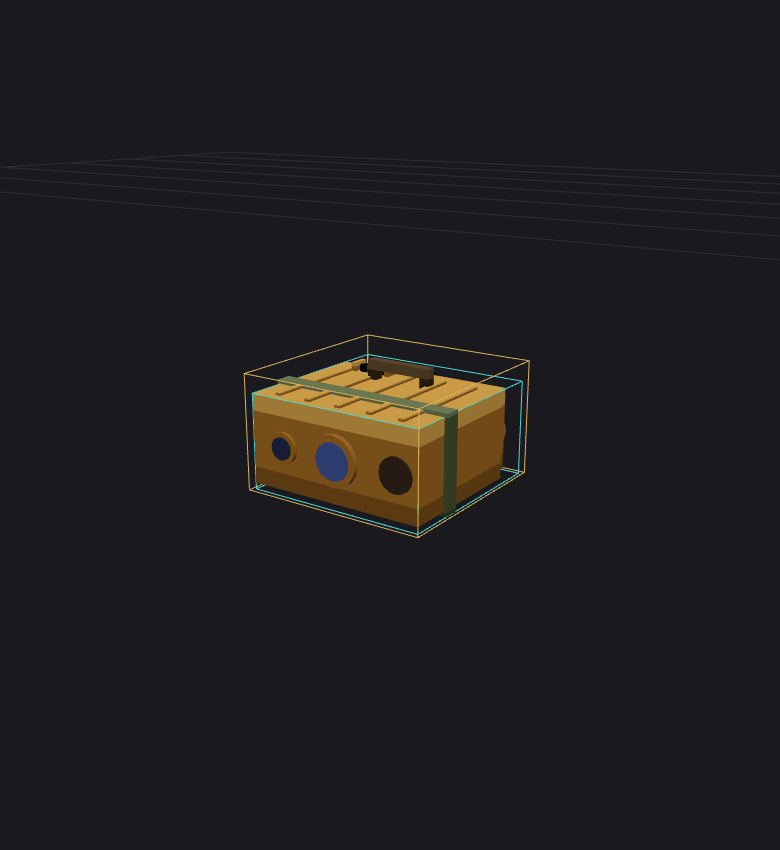
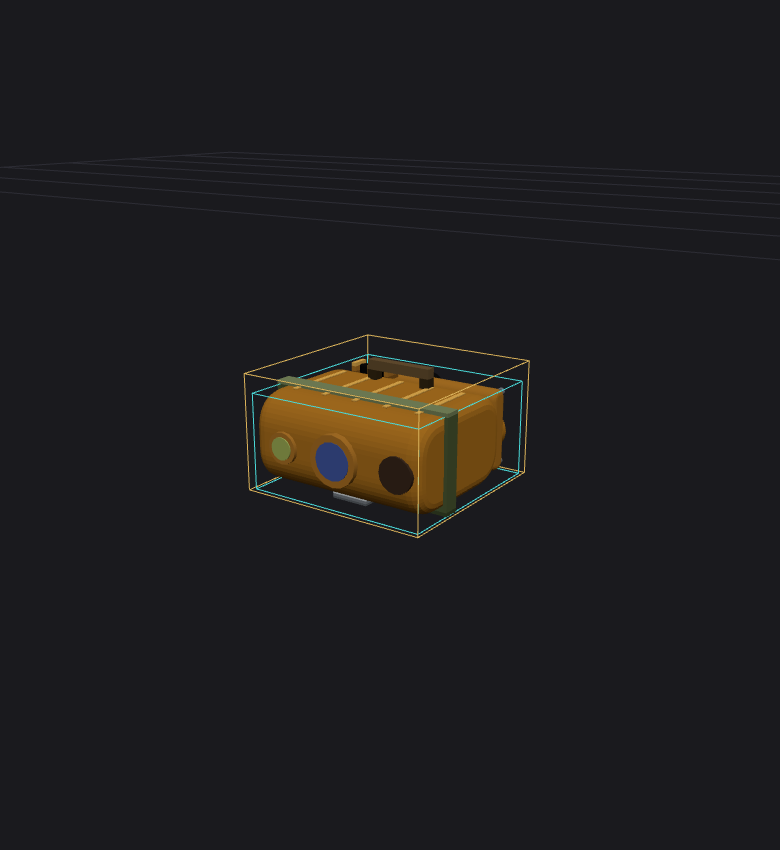
feat(lpr1): v2 sculpt — rounded capsule silhouette + custom-mesh viewmodel
Owner pass 2 ("zaoblené ne krabice, custom meshe, jemnější žebra"):
- new THREE-bound modelgen op 'loaf' (rounded stadium-profile extrusion
  with beveled rim) + extents/manifest/test coverage — spec body & rear
  panel are now true rounded castings, ribs subtler
- new palette 'lensLaser': the laser window is yellow-green per the
  owner's marketplace photo set; objective stays deep blue
- viewmodel fully resculpted as custom meshes (binoculars-grade):
  extruded capsule + sculpted panel, lathe eyecups/knobs/battery cap,
  knurled СТРОБ drum + cream scale ring + slot screw, half-moon button
  guards, dome buttons, strap lugs + slim handle, knurled brass разъём
- objective cover stays OFF (in-use look, per owner)

Changed region(s): [[0.3077, 0.4282, 0.6462, 0.6424]]

diff --git a/src/weapons.js b/src/weapons.js
@@ -801,70 +801,113 @@ export function buildViewmodel(def) {
       cyl(0.02, 0.02, 0.16, 0, 0, 0, bodyLo, { seg: 14 });                       // central hinge axle (vertical)
       break;
     }
-    case 'lpr1': {   // ЛПР-1 «Каралон-М» laser rangefinder — ochre cast loaf (dossier 226×116×221 mm ×2.2), front: laser window + big coated objective + осушка disc; rear: 2 eyecups, СТРОБ drum, knobs, plates; top: ИЗМЕРЕНИЕ buttons + ribs + strap handle
+    case 'lpr1': {   // ЛПР-1 «Каралон-М» laser rangefinder — CUSTOM-MESH build (owner pass 2): rounded cast capsule
+      // (extruded stadium profile, dossier 226×116×221 mm ×2.2), lathe eyecups/knobs/battery, subtle top ribs.
+      // Authored Z-FLIPPED vs models/lpr1/spec.json (rear panel at +Z toward the player) → asymmetric X negated.
       const oHi = 0xd99c3e, oMid = 0xb3782a, oLo = 0x8c5c20, oBr = 0xedb654,
-            blk = 0x141414, blkLo = 0x0c0c0c, bak = 0x2c2723, stl = 0x8a9099, brs = 0xa8842f,
-            olv = 0x52603a, lth = 0x3a2c18, glHi = 0x4a5fa8, glMid = 0x2e3c75, glDk = 0x1f2a52,
-            crm = 0xe6dcc2, grn = 0x3f2e22, glint = 0xcfdcff;
+            blk = 0x141414, blkLo = 0x0c0c0c, bak = 0x2c2723, stl = 0x8a9099, gun = 0x3a3f45, brs = 0xa8842f,
+            olv = 0x52603a, lth = 0x3a2c18, glHi = 0x4a5fa8, glMid = 0x2e3c75, lasHi = 0xcdd98a, lasMid = 0xa8b85e,
+            crm = 0xe6dcc2, grn = 0x3f2e22, glint = 0xcfdcff, blue = 0x3a5fc0;
       const PI2 = Math.PI / 2;
-      const zcyl = (r, h, x, y, z, col, o = {}) => { const g = new THREE.CylinderGeometry(r, r, h, o.seg || 20); b.geo(g, x, y, z, col, { rx: PI2, ...o }); g.dispose(); };
-      const ycyl = (r, h, x, y, z, col, o = {}) => { const g = new THREE.CylinderGeometry(r, r, h, o.seg || 14); b.geo(g, x, y, z, col, o); g.dispose(); };
-      // body loaf — layered ochre bands (hi top strip / mid / lo bottom shadow)
-      b.box(0.497, 0.045, 0.385, 0, 0.097, 0.02, oHi);
-      b.box(0.497, 0.148, 0.385, 0, 0, 0.02, oMid, { tint: 0.02 });
-      b.box(0.497, 0.05, 0.385, 0, -0.094, 0.02, oLo);
-      // rear control-panel casting (slightly narrower, proud toward the player)
-      b.box(0.458, 0.038, 0.048, 0, 0.091, 0.2365, oHi);
-      b.box(0.458, 0.13, 0.048, 0, 0, 0.2365, oMid, { tint: 0.02 });
-      b.box(0.458, 0.042, 0.048, 0, -0.084, 0.2365, oLo);
-      // 5 longitudinal stiffening ribs on top
-      for (const rx of [-0.185, -0.092, 0, 0.092, 0.185]) b.box(0.015, 0.011, 0.33, rx, 0.125, 0.055, oBr);
-      // The body is authored Z-FLIPPED vs models/lpr1/spec.json (rear panel at +Z toward the player),
-      // so every asymmetric feature's X is NEGATED vs the spec — a z-flip without an x-flip is a mirror.
-      // FRONT (−Z, away from player): осушка · big coated objective · laser exit window
-      zcyl(0.067, 0.031, -0.011, -0.004, -0.187, oHi);                      // objective bezel boss
-      zcyl(0.049, 0.013, -0.011, -0.004, -0.199, glMid);                    // coated glass
-      zcyl(0.030, 0.008, -0.011, -0.004, -0.206, glHi);                     // inner sheen
-      zcyl(0.012, 0.006, 0.005, 0.012, -0.209, glint, { seg: 10 });         // catch-light
-      zcyl(0.042, 0.026, 0.15, -0.004, -0.185, oHi);                        // tx window bezel
-      zcyl(0.030, 0.011, 0.15, -0.004, -0.195, glDk);                       // dark laser glass
-      zcyl(0.046, 0.022, -0.187, -0.004, -0.183, grn);                      // desiccant cartridge disc
-      // REAR (+Z, the player's view — must match slide-18 seen from behind): battery far-left,
-      // ВКЛ top-left, drum top-centre, indicator eyecup (bigger) left, visor (violet glass) right,
-      // warn plate far-right, ПОДСВ bottom-right, brass разъём bottom-centre
-      zcyl(0.053, 0.053, -0.057, 0, 0.272, blk);
-      zcyl(0.032, 0.012, -0.057, 0, 0.299, blkLo);                          // indicator eye — dark
-      zcyl(0.044, 0.053, 0.101, 0, 0.272, blk);
-      zcyl(0.020, 0.010, 0.101, 0, 0.300, glHi, { seg: 14 });               // visor glass sparkle
-      zcyl(0.055, 0.018, -0.172, -0.013, 0.262, oMid);                      // battery cover base
-      zcyl(0.040, 0.022, -0.172, -0.013, 0.280, blk);                       // black cap
-      b.box(0.013, 0.048, 0.011, -0.172, -0.013, 0.294, stl, { rz: 0.35 }); // steel fold handle
-      zcyl(0.020, 0.024, -0.119, 0.070, 0.262, bak);                        // ВКЛ/ВЫКЛ knob
-      b.box(0.011, 0.040, 0.013, -0.119, 0.070, 0.276, blk, { rz: 0.6 });   // its lever
-      // СТРОБИРОВАНИЕ drum (top centre): black knurled drum + cream scale ring (cream disc under smaller black face)
-      zcyl(0.036, 0.035, 0.018, 0.070, 0.266, blk);
-      zcyl(0.030, 0.005, 0.018, 0.070, 0.287, crm);
-      zcyl(0.023, 0.006, 0.018, 0.070, 0.290, blkLo);
-      zcyl(0.018, 0.022, 0.154, -0.062, 0.262, bak);                        // ПОДСВ knob
-      zcyl(0.023, 0.026, 0.004, -0.084, 0.264, brs);                        // brass remote-buttons connector
-      // label plates: ЛПР-1 ДАЛЬНОМЕР N (between eyecups) + ПОСЛЕ ОКОНЧАНИЯ… (far right), cream text on black
-      b.box(0.057, 0.040, 0.008, 0.022, -0.048, 0.262, blk);
-      for (let i = 0; i < 3; i++) b.box(0.044, 0.005, 0.004, 0.022, -0.036 - i * 0.012, 0.267, crm);
-      b.box(0.079, 0.048, 0.008, 0.189, 0.009, 0.262, blk);
-      for (let i = 0; i < 4; i++) b.box(0.063, 0.004, 0.004, 0.189, 0.025 - i * 0.011, 0.267, crm);
-      // slotted panel screws
-      for (const [sx, sy] of [[-0.214, 0.097], [0.214, 0.097], [-0.214, -0.089], [0.214, -0.089]]) zcyl(0.010, 0.011, sx, sy, 0.259, stl, { seg: 10 });
-      // TOP: ИЗМЕРЕНИЕ 1/2 rubber buttons between three half-round guard fins (laser-window side), near the rear edge
-      for (const fx of [0.172, 0.119, 0.066]) b.box(0.013, 0.033, 0.048, fx, 0.128, -0.099, oHi);
-      ycyl(0.019, 0.022, 0.145, 0.128, -0.099, blk);
-      ycyl(0.019, 0.022, 0.092, 0.128, -0.099, blk);
-      // strap handle over the spine (leather arch) + olive webbing wrapped around the body
-      b.box(0.026, 0.05, 0.026, -0.08, 0.144, -0.033, lth); b.box(0.026, 0.05, 0.026, 0.08, 0.144, -0.033, lth);
-      b.box(0.187, 0.026, 0.026, 0, 0.182, -0.033, lth, { tint: 0.03 });
-      b.box(0.50, 0.010, 0.044, 0, 0.124, 0.114, olv);
-      b.box(0.010, 0.26, 0.044, -0.253, -0.005, 0.114, olv); b.box(0.010, 0.26, 0.044, 0.253, -0.005, 0.114, olv);
-      // bottom steel УИУ-mount bracket strip
-      b.box(0.10, 0.018, 0.286, 0, -0.128, 0.033, stl);
+      const zcyl = (r, h, x, y, z, col, o = {}) => { const g = new THREE.CylinderGeometry(o.r2 ?? r, r, h, o.seg || 24); b.geo(g, x, y, z, col, { rx: PI2, ...o }); g.dispose(); };
+      const lat = (prof, x, y, z, col, o = {}) => { const g = new THREE.LatheGeometry(prof.map((q) => new THREE.Vector2(q[0], q[1])), o.seg || 24); b.geo(g, x, y, z, col, { rx: PI2, ...o }); g.dispose(); };
+      // rounded stadium loaf: side profile (depth D × height H, corner radius rad) extruded across width W with a beveled rim
+      const loafM = (W, H, D, rad, bev, x, y, z, col, tint = 0.03) => {
+        const bs = bev * 0.9, pw = D - 2 * bs, ph = H - 2 * bs;
+        const r = Math.max(0.001, Math.min(rad, ph / 2 - 0.0005, pw / 2 - 0.0005));
+        const sh = new THREE.Shape(); const x0 = -pw / 2, y0 = -ph / 2;
+        sh.moveTo(x0 + r, y0);
+        sh.lineTo(x0 + pw - r, y0); sh.quadraticCurveTo(x0 + pw, y0, x0 + pw, y0 + r);
+        sh.lineTo(x0 + pw, y0 + ph - r); sh.quadraticCurveTo(x0 + pw, y0 + ph, x0 + pw - r, y0 + ph);
+        sh.lineTo(x0 + r, y0 + ph); sh.quadraticCurveTo(x0, y0 + ph, x0, y0 + ph - r);
+        sh.lineTo(x0, y0 + r); sh.quadraticCurveTo(x0, y0, x0 + r, y0);
+        const g = new THREE.ExtrudeGeometry(sh, { depth: W - 2 * bev, bevelEnabled: true, bevelThickness: bev, bevelSize: bs, bevelSegments: 4, curveSegments: 12 });
+        g.translate(0, 0, -(W - 2 * bev) / 2); g.rotateY(PI2);
+        b.geo(g, x, y, z, col, { tint }); g.dispose();
+      };
+      const halfFin = (x, y, z) => {       // half-moon button guard: extruded semicircle, flat faces ±X, round edge up
+        const r = 0.027, th = 0.013;
+        const sh = new THREE.Shape(); sh.moveTo(-r, 0); sh.absarc(0, 0, r, Math.PI, 0, true); sh.lineTo(r, 0); sh.closePath();
+        const g = new THREE.ExtrudeGeometry(sh, { depth: th, bevelEnabled: false, curveSegments: 12 });
+        g.translate(0, 0, -th / 2); g.rotateY(PI2);
+        b.geo(g, x, y, z, oHi); g.dispose();
+      };
+      // ---- the cast capsule body + sculpted rear control-panel casting ----
+      loafM(0.497, 0.238, 0.385, 0.062, 0.035, 0, 0, 0.02, oMid);
+      loafM(0.458, 0.215, 0.062, 0.05, 0.014, 0, 0, 0.236, oMid, 0.045);
+      // subtle longitudinal stiffening ribs (owner: less detail here, the silhouette carries it)
+      for (const rx of [-0.185, -0.092, 0, 0.092, 0.185]) b.box(0.011, 0.007, 0.21, rx, 0.1175, 0.0, oHi);
+      // cast strap lugs on the rear shoulders
+      b.box(0.034, 0.024, 0.05, -0.225, 0.098, 0.19, oMid); b.box(0.034, 0.024, 0.05, 0.225, 0.098, 0.19, oMid);
+      // ---- FRONT (−Z, away from player): осушка · big blue objective · yellow-green laser window ----
+      zcyl(0.070, 0.05, -0.011, -0.004, -0.176, oHi);                        // objective bezel boss
+      zcyl(0.072, 0.012, -0.011, -0.004, -0.198, oBr);                       // bright lip
+      zcyl(0.060, 0.02, -0.011, -0.004, -0.202, blkLo);                      // inner barrel
+      zcyl(0.052, 0.012, -0.011, -0.004, -0.207, glMid);                     // deep blue coated glass
+      zcyl(0.040, 0.010, -0.011, -0.004, -0.212, glHi);                      // inner sheen
+      zcyl(0.012, 0.007, 0.004, 0.013, -0.216, glint, { seg: 12 });          // catch-light
+      zcyl(0.043, 0.04, 0.15, -0.004, -0.173, oHi);                          // laser window bezel
+      zcyl(0.045, 0.01, 0.15, -0.004, -0.189, oBr);
+      zcyl(0.032, 0.011, 0.15, -0.004, -0.193, lasMid);                      // 1.06 µm optics — yellow-green coating
+      zcyl(0.022, 0.009, 0.15, -0.004, -0.198, lasHi);
+      zcyl(0.008, 0.006, 0.142, 0.006, -0.202, glint, { seg: 10 });
+      zcyl(0.048, 0.008, -0.187, -0.004, -0.170, oMid);                      // осушка retaining ring
+      zcyl(0.046, 0.022, -0.187, -0.004, -0.178, grn);                       // desiccant felt disc
+      zcyl(0.009, 0.006, -0.187, -0.004, -0.190, blue, { seg: 10 });         // blue silica-gel window
+      // ---- REAR (+Z, the player's view — slide-18 layout seen from behind) ----
+      // indicator eyepiece (screen-left, bigger/softer) + visor eyepiece (violet glass)
+      for (const [ex, isVis] of [[-0.057, false], [0.101, true]]) {
+        lat([[0.030, 0], [0.041, 0.006], [0.044, 0.014], [0.040, 0.020], [0.044, 0.028], [0.040, 0.034], [0.043, 0.042]], ex, 0, 0.262, gun);
+        lat([[0.040, 0], [0.051, 0.012], [0.054, 0.030], [0.046, 0.044]], ex, 0, 0.298, blk);
+        zcyl(0.033, 0.010, ex, 0, 0.344, 0x101418);
+        if (isVis) { zcyl(0.020, 0.008, ex, 0, 0.348, glHi, { seg: 14 }); zcyl(0.007, 0.005, ex - 0.008, 0.008, 0.352, glint, { seg: 8 }); }
+      }
+      // battery cover (far screen-left): ochre base ring + black rounded cap + steel fold lever
+      zcyl(0.057, 0.014, -0.172, -0.013, 0.264, oMid);
+      lat([[0, 0], [0.030, 0], [0.038, 0.006], [0.040, 0.018], [0.033, 0.027], [0, 0.030]], -0.172, -0.013, 0.272, blk);
+      b.box(0.011, 0.052, 0.009, -0.172, -0.013, 0.300, stl, { rz: 0.35 });
+      // ВКЛ/ВЫКЛ power knob + engraved white labels
+      zcyl(0.017, 0.012, -0.119, 0.070, 0.262, oLo);
+      lat([[0.006, 0], [0.013, 0.004], [0.013, 0.018], [0.009, 0.026], [0, 0.028]], -0.119, 0.070, 0.268, bak);
+      b.box(0.008, 0.034, 0.009, -0.119, 0.070, 0.288, blk, { rz: 0.6 });
+      b.box(0.024, 0.005, 0.003, -0.152, 0.094, 0.266, crm); b.box(0.020, 0.005, 0.003, -0.088, 0.094, 0.266, crm);
+      // СТРОБИРОВАНИЕ drum: knurled black drum + cream scale ring + slotted screw face
+      { const kn = [[0.022, 0]]; for (let i = 0; i <= 9; i++) kn.push([i % 2 ? 0.037 : 0.032, 0.004 + i * 0.0042]); kn.push([0.022, 0.047]);
+        lat(kn, 0.018, 0.070, 0.262, blk, { seg: 26 }); }
+      zcyl(0.030, 0.0045, 0.018, 0.070, 0.310, crm);
+      zcyl(0.024, 0.005, 0.018, 0.070, 0.313, blkLo);
+      b.box(0.018, 0.004, 0.004, 0.018, 0.070, 0.317, stl);
+      // ПОДСВ illumination knob + label
+      zcyl(0.014, 0.010, 0.154, -0.062, 0.262, oLo);
+      lat([[0.005, 0], [0.011, 0.004], [0.011, 0.015], [0.007, 0.022], [0, 0.024]], 0.154, -0.062, 0.266, bak);
+      b.box(0.007, 0.026, 0.008, 0.154, -0.062, 0.283, blk, { rz: -0.6 });
+      b.box(0.026, 0.005, 0.003, 0.120, -0.085, 0.266, crm);
+      // remote-buttons разъём: knurled brass cap (bottom centre)
+      { const kb = [[0.014, 0]]; for (let i = 0; i <= 5; i++) kb.push([i % 2 ? 0.024 : 0.020, 0.004 + i * 0.0045]); kb.push([0.012, 0.030]);
+        lat(kb, -0.004, -0.086, 0.262, brs, { seg: 20 }); }
+      // label plates: ЛПР-1 ДАЛЬНОМЕР N (between eyecups) + ПОСЛЕ ОКОНЧАНИЯ… (screen-right), cream lines on black
+      b.box(0.057, 0.040, 0.010, 0.022, -0.048, 0.266, blk);
+      for (let i = 0; i < 3; i++) b.box(0.042, 0.0045, 0.004, 0.022, -0.036 - i * 0.012, 0.272, crm);
+      b.box(0.079, 0.048, 0.010, 0.189, 0.009, 0.266, blk);
+      for (let i = 0; i < 4; i++) b.box(0.060, 0.004, 0.004, 0.189, 0.025 - i * 0.011, 0.272, crm);
+      // slotted panel screws (4 corners + top/bottom centre)
+      for (const [sx, sy] of [[-0.214, 0.092], [0.214, 0.092], [-0.214, -0.085], [0.214, -0.085], [0, 0.100], [0.07, -0.092]]) {
+        zcyl(0.009, 0.012, sx, sy, 0.262, stl, { seg: 12 });
+        b.box(0.013, 0.003, 0.003, sx, sy, 0.270, gun);
+      }
+      // ---- TOP: ИЗМЕРЕНИЕ 1/2 rubber dome buttons between three half-moon guard fins ----
+      halfFin(0.172, 0.118, -0.075); halfFin(0.119, 0.118, -0.075); halfFin(0.066, 0.118, -0.075);
+      lat([[0.019, 0], [0.019, 0.008], [0.014, 0.012], [0.012, 0.020], [0.006, 0.026], [0, 0.028]], 0.145, 0.118, -0.075, blk, { rx: -PI2 });
+      lat([[0.019, 0], [0.019, 0.008], [0.014, 0.012], [0.012, 0.020], [0.006, 0.026], [0, 0.028]], 0.092, 0.118, -0.075, blk, { rx: -PI2 });
+      // ---- strap over the spine + slim leather handle ----
+      b.box(0.40, 0.008, 0.042, 0, 0.1225, 0.105, olv);
+      b.box(0.008, 0.17, 0.042, -0.246, 0.03, 0.105, olv); b.box(0.008, 0.17, 0.042, 0.246, 0.03, 0.105, olv);
+      b.box(0.022, 0.044, 0.022, -0.075, 0.141, -0.02, lth); b.box(0.022, 0.044, 0.022, 0.075, 0.141, -0.02, lth);
+      b.box(0.172, 0.020, 0.024, 0, 0.171, -0.02, lth, { tint: 0.04 });
+      // ---- bottom: steel УИУ-mount bracket strip + T-slot block ----
+      b.box(0.10, 0.014, 0.26, 0, -0.124, 0.04, stl);
+      b.box(0.05, 0.016, 0.07, 0, -0.130, 0.10, stl);
+      b.box(0.028, 0.018, 0.05, 0, -0.133, 0.02, gun);
       break;
     }
     case 'flashlight': {     // Soviet steel torch: ribbed body, flared reflector head, red push-button (ref Michael Dronov)

diff --git a/src/props/operators/round.js b/src/props/operators/round.js
@@ -177,6 +177,30 @@ export function decal(b, a, t, o) {
   return mesh;
 }
 
+// loaf — a rounded "stadium loaf" shell: a rounded-rectangle SIDE profile (depth d ×
+// height h, corner radius r) extruded across the width w with a beveled rim, so the
+// silhouette reads as the cast rounded clamshell of Soviet field instruments (ЛПР-1
+// rangefinder, field phones) instead of a box. The profile is shrunk by the bevel so
+// the finished bounds honestly match w×h×d. Center-anchored. THREE-bound.
+export function loaf(b, a, t, o) {
+  const { w, h, d } = a;
+  const bev = Math.min(a.bevel ?? Math.min(w, h, d) * 0.12, w / 2 - 0.001);
+  const bs = bev * 0.9;
+  const pw = d - 2 * bs, ph = h - 2 * bs;                  // profile pre-shrunk; bevel grows it back to d×h
+  const r = Math.max(0.001, Math.min(a.r ?? Math.min(ph, pw) * 0.35, ph / 2 - 0.0005, pw / 2 - 0.0005));
+  const sh = new THREE.Shape(); const x0 = -pw / 2, y0 = -ph / 2;
+  sh.moveTo(x0 + r, y0);
+  sh.lineTo(x0 + pw - r, y0); sh.quadraticCurveTo(x0 + pw, y0, x0 + pw, y0 + r);
+  sh.lineTo(x0 + pw, y0 + ph - r); sh.quadraticCurveTo(x0 + pw, y0 + ph, x0 + pw - r, y0 + ph);
+  sh.lineTo(x0 + r, y0 + ph); sh.quadraticCurveTo(x0, y0 + ph, x0, y0 + ph - r);
+  sh.lineTo(x0, y0 + r); sh.quadraticCurveTo(x0, y0, x0 + r, y0);
+  const g = new THREE.ExtrudeGeometry(sh, { depth: w - 2 * bev, bevelEnabled: true, bevelThickness: bev, bevelSize: bs, bevelSegments: 4, curveSegments: 12 });
+  g.translate(0, 0, -(w - 2 * bev) / 2);                   // center the extrusion before re-orienting
+  g.rotateY(Math.PI / 2);                                   // extrusion axis → X; profile plane → (z, y)
+  b.geo(g, o.x, o.y, o.z, a.tone ? t[a.tone] : t.mid, { tint: 0.02 });
+  g.dispose();
+}
+
 // ---- canvas generators (exported where the live gramophone re-uses them) ----
 
 function _star(c, R, color) {                              // 5-point gold star, centred at the cursor

diff --git a/src/props/palette.js b/src/props/palette.js
@@ -41,6 +41,8 @@ export const PALETTE = {
                 glb: { rgb: [0.65, 0.45, 0.16], rough: 0.45, metal: 0.0 } },
   lensGlass:  { voxel: { hi: '#4a5fa8', mid: '#2e3c75', lo: '#1f2a52', slot: '#141c3a', bright: '#6b80c4' },
                 glb: { rgb: [0.18, 0.24, 0.46], rough: 0.12, metal: 0.0 } },
+  lensLaser:  { voxel: { hi: '#cdd98a', mid: '#a8b85e', lo: '#7e8c42', slot: '#566030', bright: '#e2ecaa' },
+                glb: { rgb: [0.66, 0.72, 0.37], rough: 0.15, metal: 0.0 } },
   // --- H.K.M. gramophone palette ---
   chrome:    { voxel: { hi: '#e9edf2', mid: '#b9c1c9', lo: '#7b848d', slot: '#4a5158', bright: '#ffffff' },
                glb: { rgb: [0.70, 0.72, 0.75], rough: 0.16, metal: 0.95 } },

diff --git a/src/props/operators/manifest.js b/src/props/operators/manifest.js
@@ -32,6 +32,7 @@ export const MANIFEST = {
   tube:        { args: ['pts', 'tube'],           dims: ['tube'],              anchor: 'center' },
   texturedDisc: { args: ['r'],                     dims: ['r'],                anchor: 'center' },
   decal:       { args: ['w', 'h'],                dims: ['w', 'h'],            anchor: 'center' },
+  loaf:        { args: ['w', 'h', 'd'],           dims: ['w', 'h', 'd'],       anchor: 'center' },
 };
 
 export const operatorNames = () => Object.keys(MANIFEST);

diff --git a/src/props/operators/index.js b/src/props/operators/index.js
@@ -5,4 +5,4 @@
 export { bevelBox, panel, plate, stencil, planks, finSet, latticeBeam, cabinet } from './structural.js';
 export { drawerStack, legs } from './furniture.js';
 export { lidBox, strapBand, handleU } from './container.js';
-export { cylinder, disc, cone, deltaFins, texturedCylinder, torus, tube, texturedDisc, decal } from './round.js';
+export { cylinder, disc, cone, deltaFins, texturedCylinder, torus, tube, texturedDisc, decal, loaf } from './round.js';

diff --git a/src/props/operators/extents.js b/src/props/operators/extents.js
@@ -41,6 +41,8 @@ const roundExtents = {
     if (ax === 'x') return { min: [-th, -hw, -hh], max: [th, hw, hh] };
     return { min: [-hw, -hh, -th], max: [hw, hh, th] };
   },
+  // rounded stadium loaf shell — honest w×h×d box (the profile is pre-shrunk by the bevel)
+  loaf: (a) => ({ min: [-a.w / 2, -a.h / 2, -a.d / 2], max: [a.w / 2, a.h / 2, a.d / 2] }),
 };
 
 export const EXTENTS = {

diff --git a/models/lpr1/BUILD.md b/models/lpr1/BUILD.md
@@ -38,6 +38,20 @@ painted (renders/lpr-ingame-*.png) · 0 real console errors (one headless pointe
 Viewmodel fix found here: the vm is authored z-flipped vs the spec (rear at +Z), so all
 asymmetric feature X had to be negated — a z-flip without an x-flip is a mirror.
 
+## R4 — owner pass 2: "zaoblené, ne krabice; custom meshe; jemnější žebra"
+New marketplace photo set (olive unit, all faces) added to ref/ knowledge. Changes:
+- new THREE-bound op **`loaf`** (rounded stadium-profile extrusion) → spec body + rear
+  panel are now true rounded castings; ribs subtler/shorter (0.006×0.004×0.095)
+- laser window re-coloured per the photos: new palette `lensLaser` (yellow-green 1.06 µm
+  coating); objective stays deep blue
+- **viewmodel fully resculpted** as custom meshes (binoculars-grade): extruded capsule
+  body + sculpted panel casting, lathe eyecups/knobs/battery cap, knurled СТРОБ drum +
+  cream ring + slot screw, half-moon button guards (extruded semicircles), dome rubber
+  buttons, strap lugs + slim handle, brass knurled разъём, slotted screws, T-slot bracket
+- objective cover deliberately OFF (owner: "chceme jak to máme — otevřené")
+Verified: lint green, 67/67 tests (loaf covered), headless in-game logic re-run all green,
+front/rear vm screenshots renders/lpr-vm-front.png + lpr-ingame-hip.png.
+
 ## Deliberate omissions (see dossier needs[])
 objective cover (modeled OFF / in-use), bottom data plate, exact aperture diameters
 (ДСП-classified; photo ratios + 44.8 mm derivation used), reticle span numbering.
